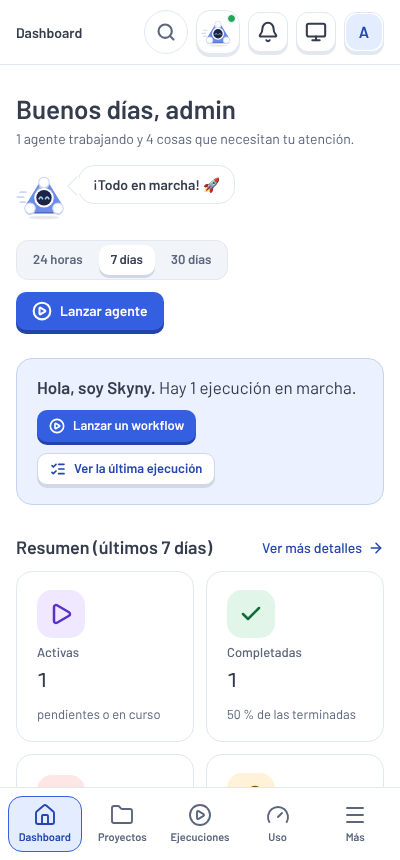
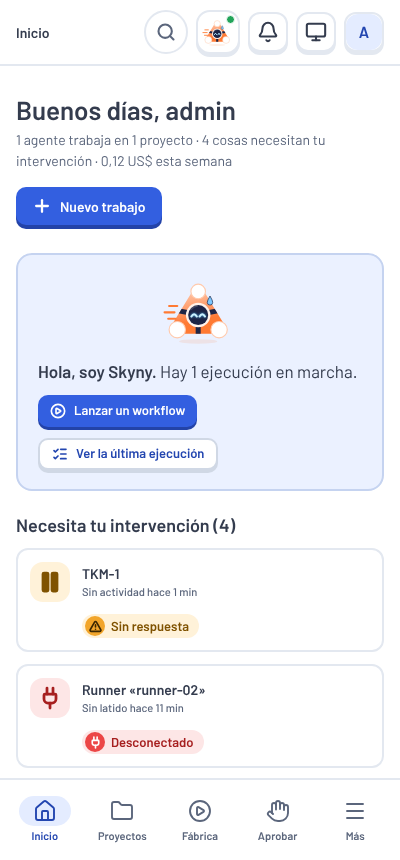
SV-C - Skyny 3D en Inicio (#301)
* SV-A - Estudio de Skyny v2 en el repo

Porta al módulo three/ el estudio skyny-v2.0.html (modelo, letreros,
fundidos, símbolos en la mano, miradas en reposo), añade las demos de
transiciones al estudio, AGENTS.md + CLAUDE.md y npm run studio:export.

Closes #294

Claude-Session: https://claude.ai/code/session_01PyBwEYhtVkXtpQq58SX3xB

* SV-B - Skyny 3D en la ejecución

Skyny 3D en vivo en la banda «Qué pasa ahora»: permanencia mínima por
estado, letreros cortos, contador de fases y letrero de reintento, con el
2D de respaldo.

Closes #296

Claude-Session: https://claude.ai/code/session_01PyBwEYhtVkXtpQq58SX3xB

* Login más limpio: Skyny centrado y textos nuevos

Quita el lema y el subtítulo en mayúsculas, centra a Skyny en su panel
(también en el móvil, donde ahora se ven las tres píldoras) y deja
«Hola de nuevo» con una línea de ayuda.

Claude-Session: https://claude.ai/code/session_01PyBwEYhtVkXtpQq58SX3xB

* SV-C - Skyny 3D en Inicio

Un solo Skyny en Inicio: el del saludo pasa a 3D en vivo con el estado
global del companion (140 px; 96 px y encima del texto en el móvil) y se
quita el que asomaba junto al título. Guía en docs/tests/probar-sv-c.md.

Closes #300

Claude-Session: https://claude.ai/code/session_01PyBwEYhtVkXtpQq58SX3xB

---------

diff --git a/web/src/components/companion/CompanionHello.tsx b/web/src/components/companion/CompanionHello.tsx
@@ -3,22 +3,39 @@ import { CirclePlay, ListChecks, ShieldCheck } from 'lucide-react'
 import { Link } from 'react-router'
 import { cn } from '../../lib/cn'
 import { api, type ApprovalSummary } from '../../api'
+import { useMediaQuery } from '../../useMediaQuery'
 import { useNow } from '../../useNow'
 import { Companion } from './Companion'
 import { useCompanion } from './context'
 import { usePoke } from './gesture'
 import { helloText, successStreak } from './peek'
+import { SkynyLive } from './SkynyLive'
 
 /** Cuántas ejecuciones recientes mira para la racha. */
 const STREAK_RUNS = 20
 
+/** Skyny 3D en la banda (SV-C): más pequeño en el móvil, donde va encima del texto. */
+const SIZE_3D = 140
+const SIZE_3D_NARROW = 96
+const SIZE_2D = 80
+
 /**
- * Tarjeta de saludo del Dashboard: la mascota cuenta qué hay en marcha y qué te espera, con atajos
+ * Tarjeta de saludo de Inicio: la mascota cuenta qué hay en marcha y qué te espera, con atajos
  * a lo que ya existe (revisar la aprobación, lanzar un workflow, ver la última ejecución). El
  * saludo cambia con la hora y cuenta la racha sin fallos; al pulsar a Skyny dice una frase (SY-C).
+ * Desde SV-C es el único Skyny de Inicio: en 3D (con el 2D de respaldo) y con el estado global
+ * del companion, así que escribe en su pantalla lo que pasa en todo el espacio de trabajo.
  */
-export function CompanionHello({ approvals }: { approvals: ApprovalSummary[] }) {
-  const { activeRuns, gesture } = useCompanion()
+export function CompanionHello({
+  approvals,
+  sweat,
+}: {
+  approvals: ApprovalSummary[]
+  /** Alguna cuota aprieta: en 2D, Skyny suda. */
+  sweat?: boolean
+}) {
+  const { activeRuns, expression, gesture } = useCompanion()
+  const narrow = useMediaQuery('(max-width: 720px)')
   const latest = activeRuns[0]
   const now = useNow(true, 60_000)
   const recent = useQuery({
@@ -36,11 +53,18 @@ export function CompanionHello({ approvals }: { approvals: ApprovalSummary[] }) 
         aria-label="Hablar con Skyny"
         onClick={poked.poke}
       >
-        <Companion
-          state={approvals.length > 0 ? 'waiting' : 'calm'}
-          size={80}
-          gesture={poked.gesture ?? gesture}
-          look
+        <SkynyLive
+          state={expression}
+          size={narrow ? SIZE_3D_NARROW : SIZE_3D}
+          fallback={
+            <Companion
+              state={expression}
+              size={SIZE_2D}
+              gesture={poked.gesture ?? gesture}
+              sweat={sweat}
+              look
+            />
+          }
         />
       </button>
       <div className="companion-hello-text">

diff --git a/web/src/pages/HomePage.tsx b/web/src/pages/HomePage.tsx
@@ -16,9 +16,6 @@ import { RISK_LABEL } from '../components/approval/approvalFormat'
 import { usePendingApprovals } from '../components/approval/usePendingApprovals'
 import { AttentionList, type Alert } from '../components/AttentionList'
 import { CompanionHello } from '../components/companion/CompanionHello'
-import { CompanionPeek } from '../components/companion/CompanionPeek'
-import { useCompanion } from '../components/companion/context'
-import { peekText } from '../components/companion/peek'
 import { ErrorMessage } from '../components/ErrorMessage'
 import { Icon } from '../components/icons/Icon'
 import type { IconName } from '../components/icons/registry'
@@ -80,7 +77,6 @@ export function HomePage() {
   })
   const approvals = usePendingApprovals()
   const now = useNow(true)
-  const companion = useCompanion()
 
   const items = [...(pending.data ?? [])].sort(byPhase)
   const data = summary.data
@@ -110,13 +106,6 @@ export function HomePage() {
             </p>
           )}
         </div>
-        <CompanionPeek
-          state={companion.expression}
-          text={peekText(companion.expression, companion.pendingApprovals)}
-          gesture={companion.gesture}
-          sweat={(data?.quotaWarnings.length ?? 0) > 0}
-          className="dash-peek"
-        />
         <div className="dash-actions">
           {projects.data && active.length === 0 ? (
             <Link to="/projects" className="btn">
@@ -132,7 +121,10 @@ export function HomePage() {
         </div>
       </div>
       <ErrorMessage error={summary.error} />
-      <CompanionHello approvals={approvals.data ?? []} />
+      <CompanionHello
+        approvals={approvals.data ?? []}
+        sweat={(data?.quotaWarnings.length ?? 0) > 0}
+      />
       <AttentionList alerts={alerts} className="dash-section" title="Necesita tu intervención" />
 
       <section className="dash-section" aria-labelledby="projects-title">

diff --git a/web/src/index.css b/web/src/index.css
@@ -8186,7 +8186,8 @@
     cursor: pointer;
   }
 
-  .skyny-poke:active .companion {
+  .skyny-poke:active .companion,
+  .skyny-poke:active .skyny-3d {
     transform: scale(0.96);
   }
 
@@ -8315,7 +8316,6 @@
       height: 56px;
     }
 
-    .dash-peek,
     .page-peek {
       margin: 0;
     }
@@ -8324,8 +8324,15 @@
       margin-bottom: 20px;
     }
 
+    /* SV-C: en el móvil, Skyny va encima del texto, centrado. */
+    .companion-hello {
+      flex-direction: column;
+      align-items: stretch;
+      gap: var(--space-2);
+    }
+
     .companion-hello > .skyny-poke {
-      display: none;
+      align-self: center;
     }
   }
 

diff --git a/docs/ui/skyny-3d.md b/docs/ui/skyny-3d.md
@@ -1,6 +1,6 @@
 # Skyny 3D
 
-Skyny en 3D (hito TD) está hecho con [three.js](https://threejs.org/). Desde TD-A sale en el login y, desde SV-B, en la banda «Qué pasa ahora» de cada ejecución; el resto de la web sigue con el Skyny 2D (`Companion.tsx`, ver [`../companion.md`](../companion.md)).
+Skyny en 3D (hito TD) está hecho con [three.js](https://threejs.org/). Desde TD-A sale en el login; desde SV-B, en la banda «Qué pasa ahora» de cada ejecución, y desde SV-C, en el saludo de Inicio. El resto de la web sigue con el Skyny 2D (`Companion.tsx`, ver [`../companion.md`](../companion.md)).
 
 ## Skyny en vivo (SV-B)
 
@@ -13,6 +13,8 @@ Skyny en 3D (hito TD) está hecho con [three.js](https://threejs.org/). Desde TD
 - con movimiento reducido, sin WebGL 2, mientras carga three o si el 3D falla, enseña el `fallback` (el Skyny 2D). Por eso las capturas de la galería visual, que van con movimiento reducido, siguen en 2D.
 
 En la ejecución (`RunBand`), Skyny mide 120 px. `runLive.ts` decide qué cuenta: con varias fases, por cuál va (2/4); en un reintento de la fase, «REINTENTO 1/2» (con su política de reintentos) o «INTENTO 3» (si se reintentó a mano). Cada página tiene como mucho un Skyny 3D: cada uno es un contexto WebGL.
+
+En Inicio (SV-C), el saludo «Hola, soy Skyny» (`CompanionHello`) es el **único Skyny** de la página: el que asomaba junto al título con su bocadillo se ha quitado. Usa el estado global del companion (`useCompanion().expression`), mide 140 px (96 px en el móvil, centrado encima del texto) y, como está por debajo de 160 px, escribe los letreros cortos. Al pulsarlo dice una frase, como antes.
 
 Desde TD-B, **el estudio donde se diseña está dentro del repo** y usa el mismo código que la app. No hay que portar nada: lo que se cambia en el estudio es lo que sale en la web. En SV-A se trajo todo lo del estudio v2 (`skyny-v2.0.html`, hecho con Codex fuera del repo) y ese HTML suelto se retira: a partir de aquí, Codex y Claude trabajan sobre estos ficheros (ver [`AGENTS.md`](../../AGENTS.md)).
 

diff --git a/docs/tests/probar-sv-c.md b/docs/tests/probar-sv-c.md
@@ -1,0 +1,37 @@
+# Probar SV-C: Skyny 3D en Inicio
+
+SV-C deja un solo Skyny en Inicio, en 3D y en vivo, dentro de la tarjeta del saludo «Hola, soy Skyny». El Skyny 2D que asomaba junto al título, con su bocadillo («Todo al día», «¡Todo en marcha! 🚀»…), desaparece. Solo toca la web.
+
+## 1. Comprobaciones automáticas
+
+```bash
+cd web
+npm ci
+npx tsc -b && npx oxlint && npx prettier --check . && npx vitest run
+```
+
+Todo en verde.
+
+## 2. Inicio
+
+Con la app levantada (`docs/arranque-local.md`), abre Inicio (`/`).
+
+1. Junto a «Buenos días, …» ya no hay Skyny ni bocadillo: solo el título, el resumen y «Nuevo trabajo».
+2. En la tarjeta del saludo, Skyny sale en 3D (unos 140 px) a la izquierda del texto. Al abrir la página hace el gesto de su estado y escribe un letrero corto en la pantalla (p. ej. «HOLA» sin nada en marcha).
+3. Lanza un workflow sobre `demo-repo` y vuelve a Inicio: Skyny pasa a Pensando («IDEA») o Ejecutando («EN MARCHA», con las líneas de velocidad). Es el mismo estado que el icono de Skyny de la barra superior.
+4. Si una fase pide aprobación, Skyny pasa enseguida a Te necesita (la mano con el «?») y aparece «Revisar la aprobación».
+5. Pulsa a Skyny: dice una frase en lugar del saludo, como antes.
+6. Pasa el ratón cerca de su cara: le sigue con los ojos.
+
+## 3. Móvil
+
+Con la ventana a menos de 720 px (o el móvil), Skyny sale centrado **encima** del texto del saludo, a unos 96 px. Antes no se veía en el móvil.
+
+## 4. Sin 3D
+
+- Con «reducir movimiento» activado, la tarjeta enseña el Skyny 2D de siempre (80 px), que suda si alguna cuota aprieta.
+- `npm run screenshots` (galería visual) va con movimiento reducido: el saludo sale en 2D y ya sin el Skyny de la cabecera.
+
+## 5. El resto
+
+El login y la página de la ejecución siguen igual que tras SV-B. En el resto de páginas, Skyny sigue en 2D.
